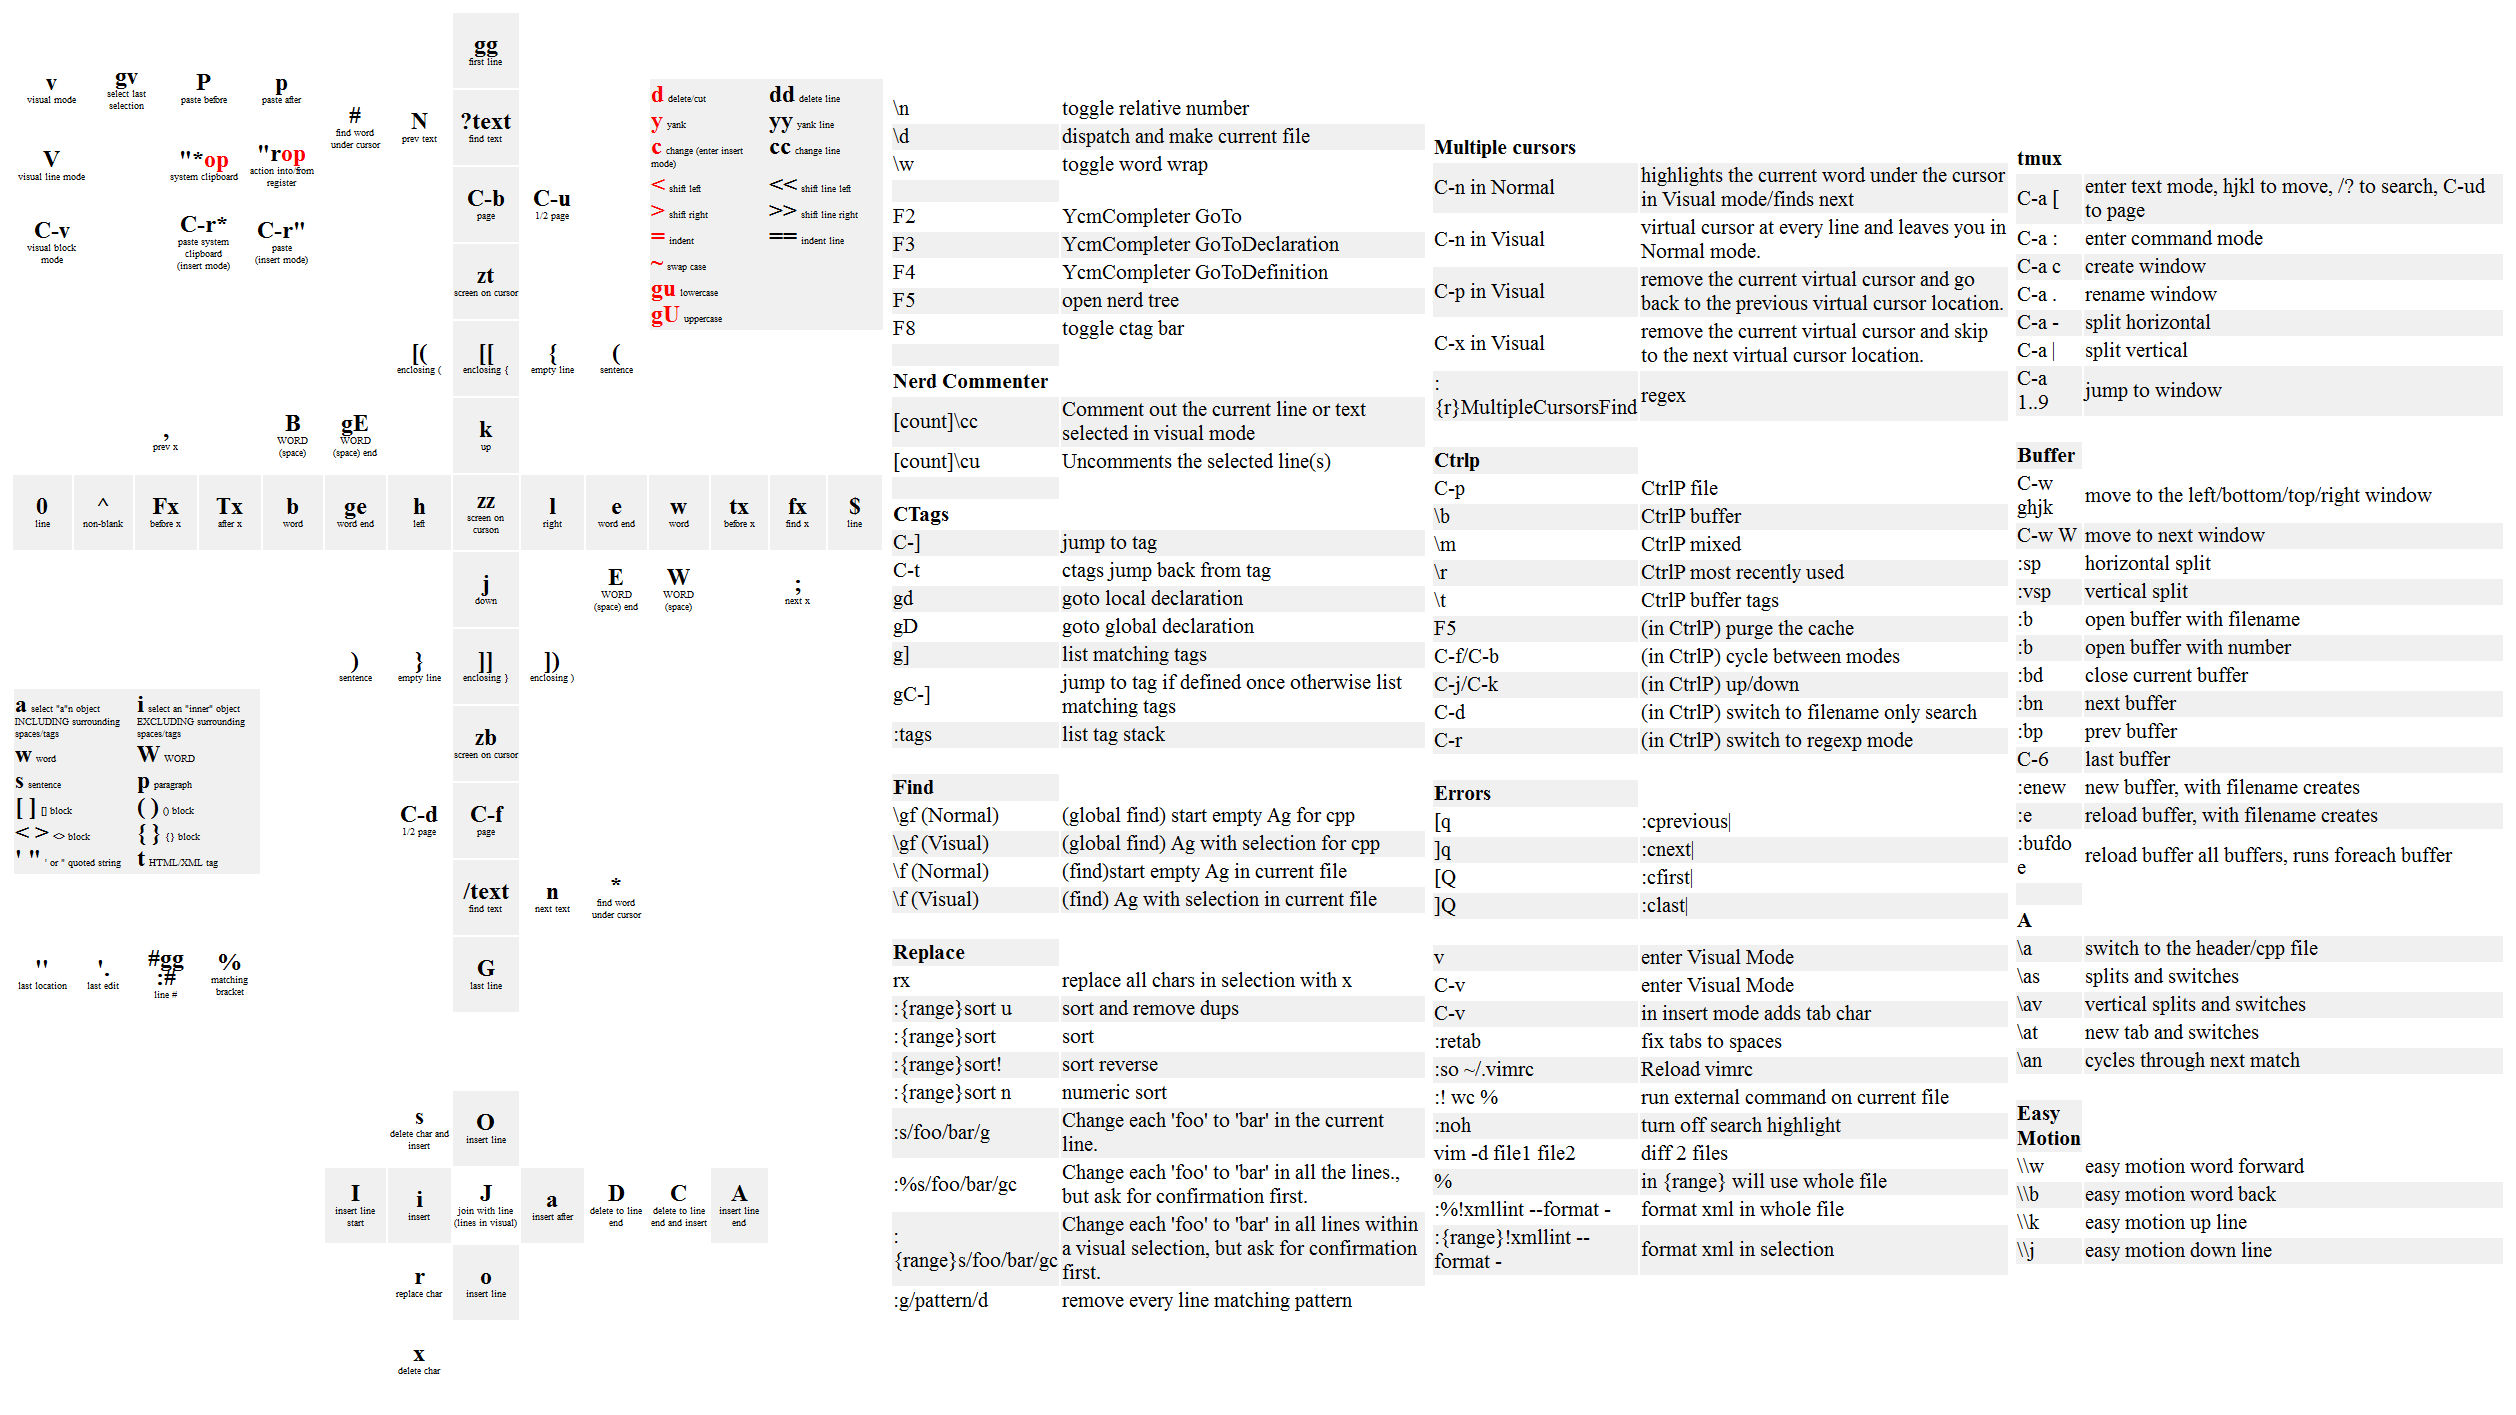
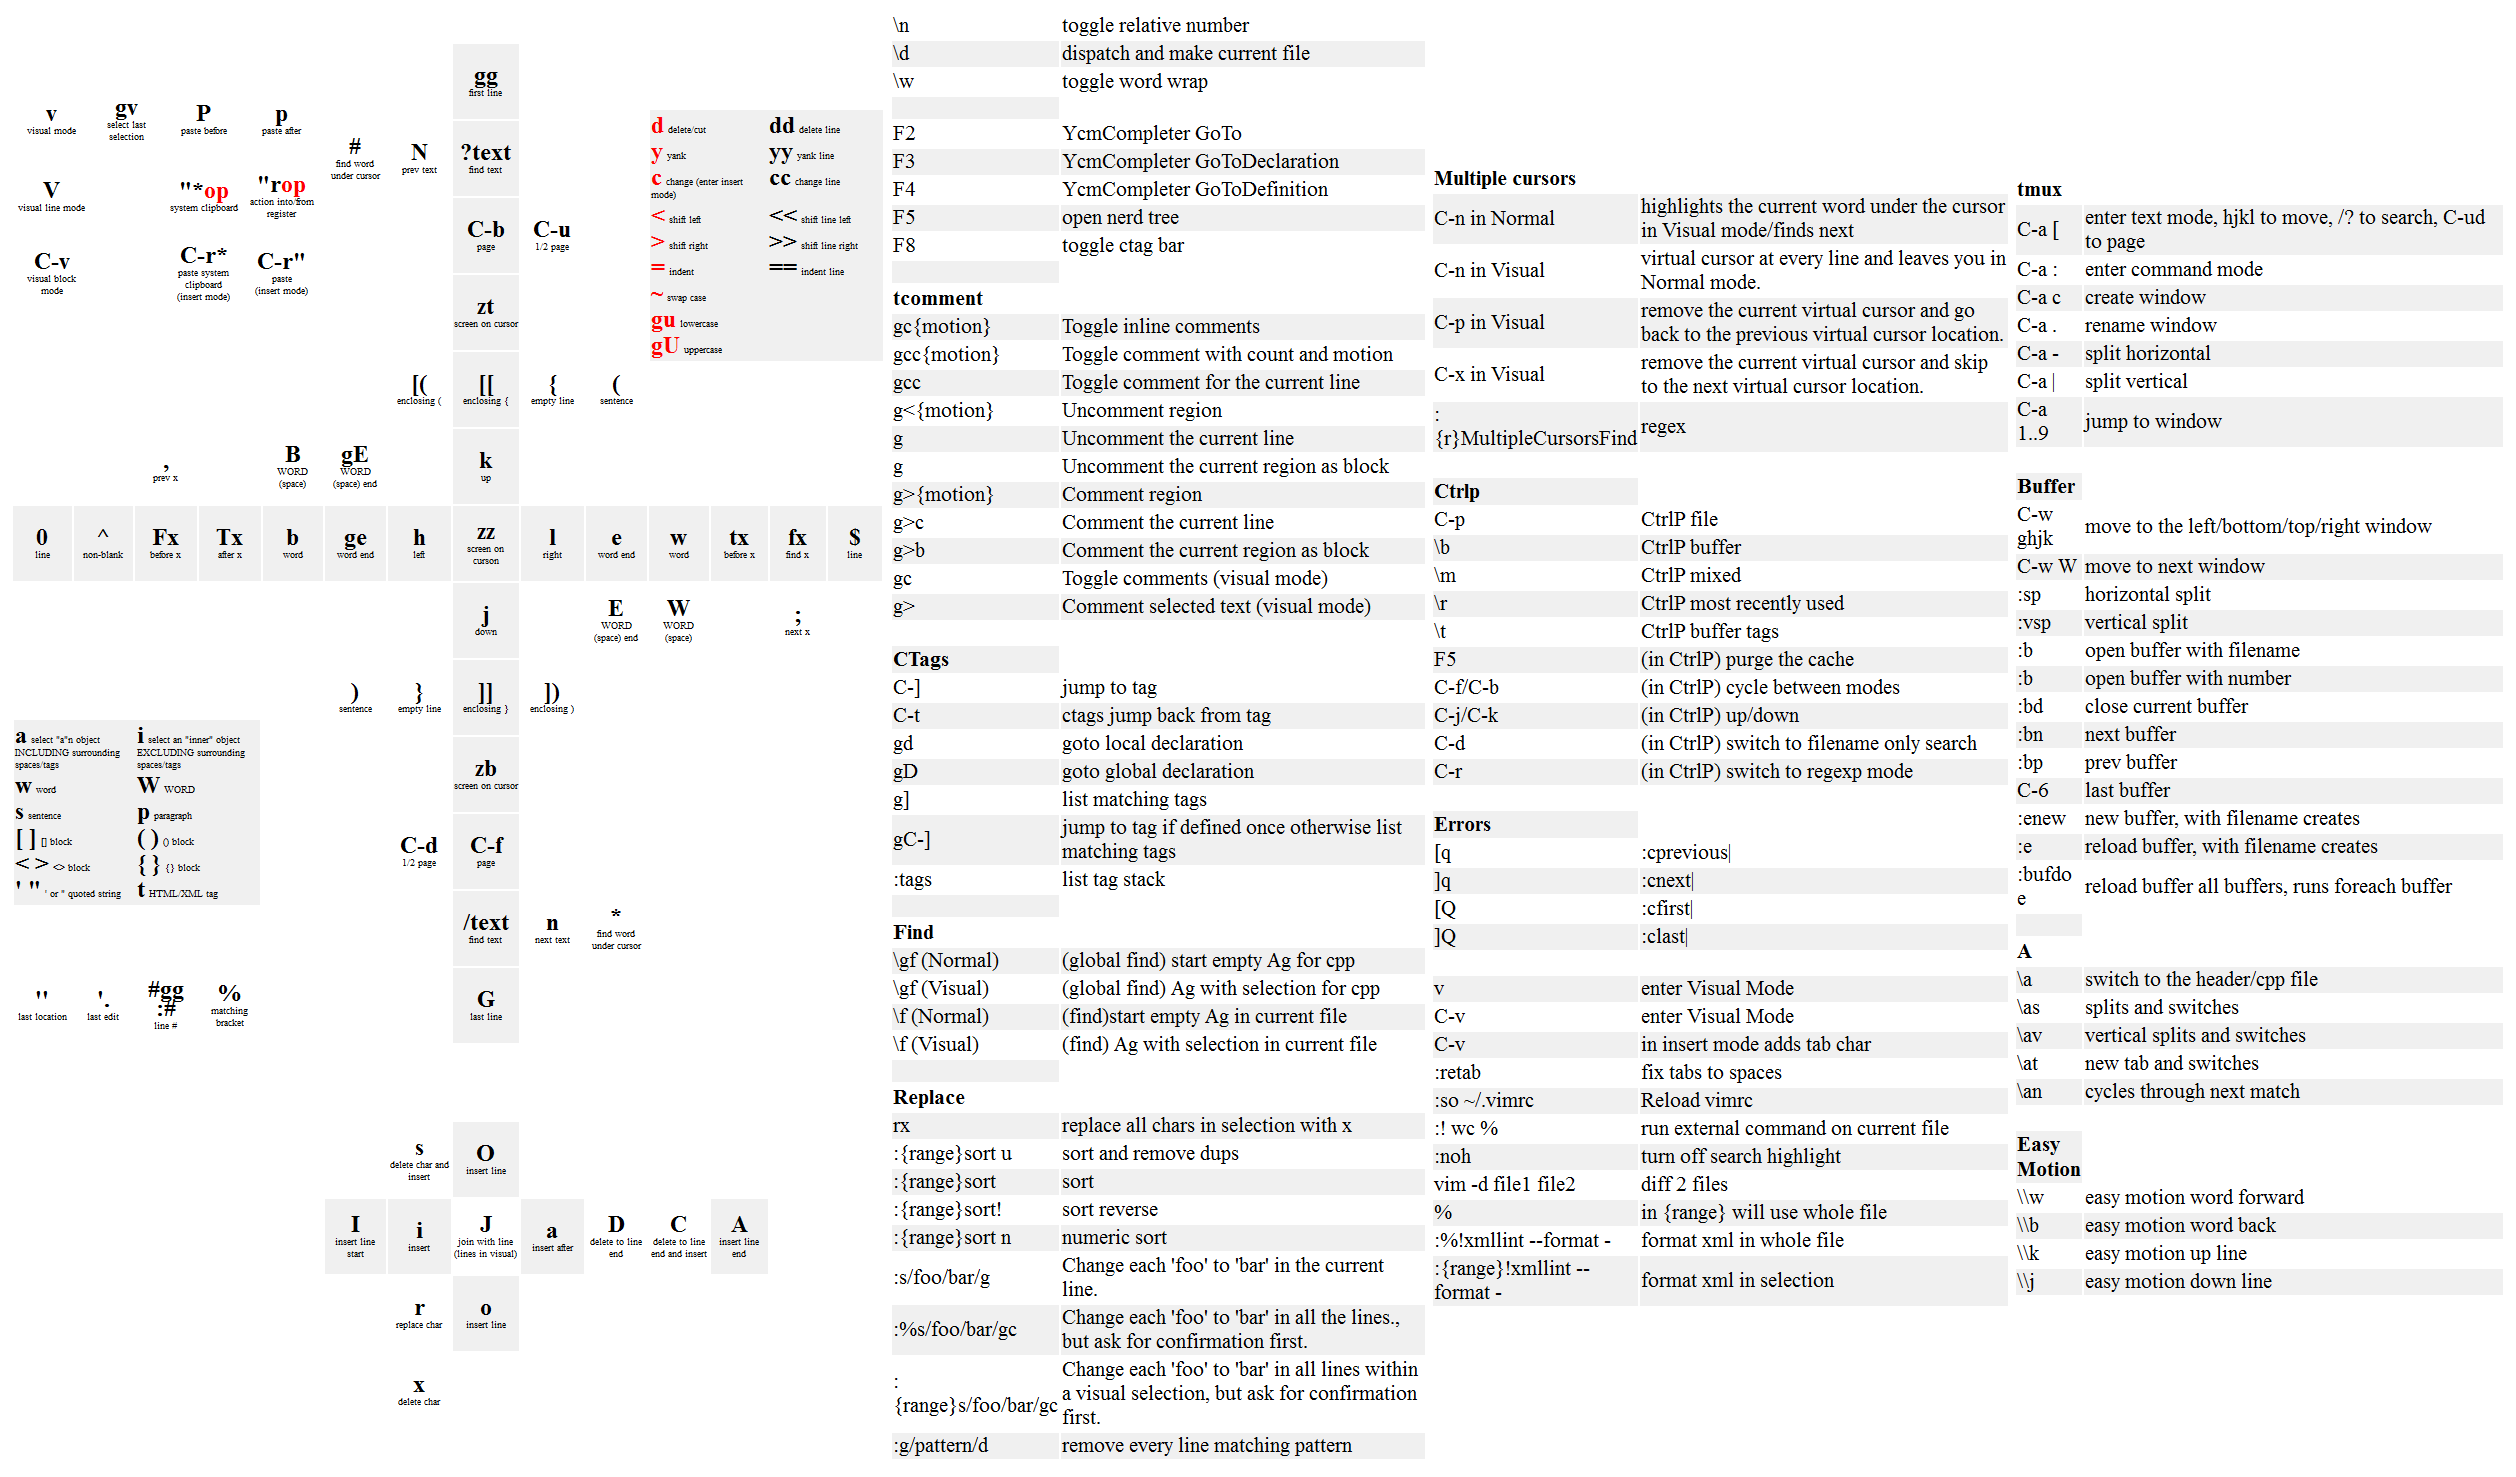
comments

diff --git a/vim_cheatsheet.html b/vim_cheatsheet.html
@@ -375,9 +375,19 @@ vimact {
                 <tr><td class="listlcol">F5</td><td class="listrcol">open nerd tree</td></tr>
                 <tr><td class="listlcol">F8</td><td class="listrcol">toggle ctag bar</td></tr>
 				<tr><td/><br/></tr>
-				<tr><td class="listlcol"><b>Nerd Commenter</b></td></tr>
-                <tr><td class="listlcol">[count]\cc</td><td class="listrcol">Comment out the current line or text selected in visual mode</td></tr>
-                <tr><td class="listlcol">[count]\cu</td><td class="listrcol">Uncomments the selected line(s)</td></tr>
+				<tr><td class="listlcol"><b>tcomment</b></td></tr>
+				<tr><td class="listlcol">gc{motion}</td><td class="listrcol">Toggle inline comments</td></tr>
+				<tr><td class="listlcol">gc<Count>c{motion}</td><td class="listrcol">Toggle comment with count and motion</td></tr>
+				<tr><td class="listlcol">gcc</td><td class="listrcol">Toggle comment for the current line</td></tr>
+				<tr><td class="listlcol">g<{motion}</td><td class="listrcol">Uncomment region</td></tr>
+				<tr><td class="listlcol">g<c</td><td class="listrcol">Uncomment the current line</td></tr>
+				<tr><td class="listlcol">g<b</td><td class="listrcol">Uncomment the current region as block</td></tr>
+				<tr><td class="listlcol">g>{motion}</td><td class="listrcol">Comment region</td></tr>
+				<tr><td class="listlcol">g>c</td><td class="listrcol">Comment the current line</td></tr>
+				<tr><td class="listlcol">g>b</td><td class="listrcol">Comment the current region as block</td></tr>
+				<tr><td class="listlcol">gc</td><td class="listrcol">Toggle comments (visual mode)</td></tr>
+				<tr><td class="listlcol">g></td><td class="listrcol">Comment selected text (visual mode)</td></tr>
+				
 				<tr><td/><br/></tr>
 				<tr><td class="listlcol"><b>CTags</b></td></tr>
 				<tr><td class="listlcol">C-]</td><td class="listrcol">jump to tag</td></tr>
